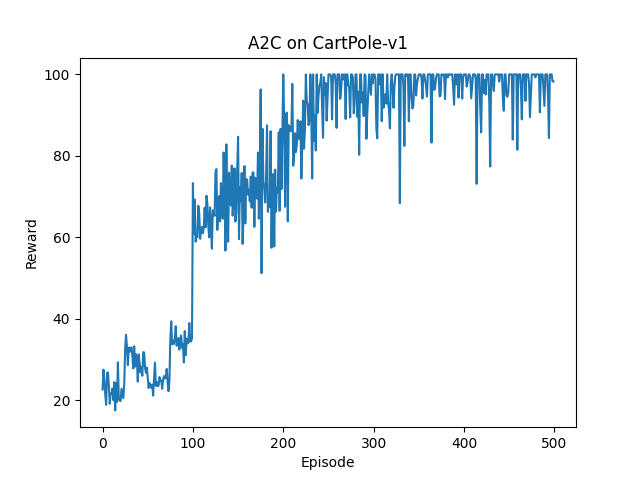
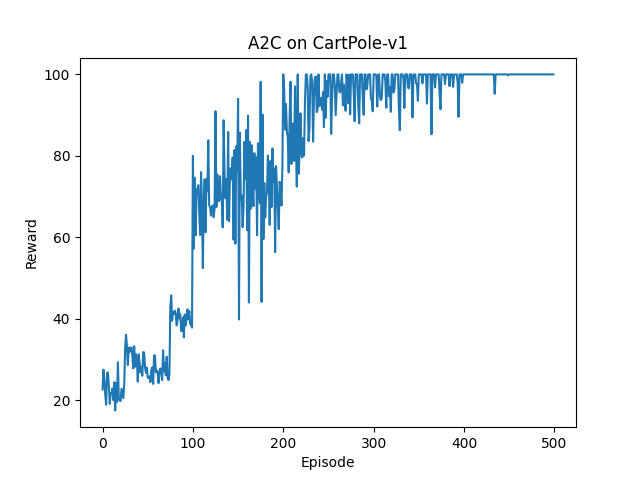
Update policy gradient methods to use batches of observations and actions

Changed region(s): [[0.2812, 0.1562, 0.875, 0.6562], [0.2188, 0.625, 0.3125, 0.8125]]

diff --git a/a2c.py b/a2c.py
@@ -1,7 +1,6 @@
 import argparse
 import random
 from collections import namedtuple
-from copy import copy
 from typing import List, Tuple
 
 import gym
@@ -19,7 +18,7 @@ random.seed(24)
 # Device configuration
 device = torch.device("cuda:0" if torch.cuda.is_available() else "cpu")
 
-Trajectory = namedtuple("Trajectory", ["state", "action", "reward"])
+Episode = namedtuple("Episode", ["states", "actions", "rewards"])
 Data = namedtuple("Data", ["values", "log_probs", "returns", "advantages"])
 
 
@@ -43,11 +42,11 @@ class ActorLearner:
         self._num_episodes = num_episodes
         self._max_steps = max_steps
 
-    def collect(self) -> Tuple[List[List[Trajectory]], List[float]]:
+    def collect(self) -> Tuple[List[Episode], List[float]]:
         """Collects experience from the environment
 
         :return: A tuple with a list of episodes and a list of total reward per episode
-        :rtype: Tuple[List[List[Trajectory]], List[float]]
+        :rtype: Tuple[List[Episode], List[float]]
         """
         episodes = []
         rewards = []
@@ -56,14 +55,21 @@ class ActorLearner:
 
         # Collect experience
         for _ in range(self._num_episodes):
-            trajectories = []
+            states = []
+            actions = []
+            rews = []
+
             steps = 0
             reward = 0.0
 
             while not done and steps < self._max_steps:
                 a = self._agent.act(s)
                 s_prime, r, done, _ = self._env.step(a)
-                trajectories.append(Trajectory(s, a, r))
+
+                states.append(s)
+                actions.append(torch.as_tensor(a))
+                rews.append(torch.as_tensor(r))
+
                 s = torch.from_numpy(s_prime).float()
                 steps += 1
                 reward += r
@@ -71,13 +77,17 @@ class ActorLearner:
             # If the episode got truncated then bootstrap to approximate the missing returns
             if not done:
                 a = self._agent.act(s)
-                v, _ = self._agent.step(s, a)
-                trajectories.append(Trajectory(s, a, v.detach().item()))
+                v, _ = self._agent.step(s, torch.as_tensor(a))
+
+                states.append(s)
+                actions.append(torch.as_tensor(a))
+                rews.append(v)
             else:
                 s = torch.from_numpy(self._env.reset()).float()
                 done = False
 
-            episodes.append(trajectories)
+            # Rewards are not converted to tensor since we compute the return by backtracking through the list
+            episodes.append(Episode(torch.stack(states), torch.stack(actions), rews))
             rewards.append(reward)
 
         return episodes, rewards
@@ -124,19 +134,13 @@ def a2c(
         pi_optimizer.zero_grad()
         # We use the negative loss because policy optimization is done using gradient _ascent_
         # This is because in policy gradient methods, the "loss" is a performance measure that is _maximized_
-        pi_loss = 0.0
-        for log_prob, advantage in zip(data.log_probs, data.advantages):
-            pi_loss += -advantage * log_prob
-        pi_loss = pi_loss.mean()
+        pi_loss = -(data.advantages * data.log_probs).mean()
         pi_loss.backward()
         pi_optimizer.step()
 
         # Update the value function
         v_optimizer.zero_grad()
-        v_loss = 0.0
-        for value, ret in zip(data.values, data.returns):
-            v_loss += (value - ret) ** 2
-        v_loss = v_loss.mean()
+        v_loss = ((data.values - data.returns) ** 2).mean()
         v_loss.backward()
         v_optimizer.step()
 
@@ -146,34 +150,47 @@ def a2c(
     return total_rewards
 
 
-def _process_episodes(episodes: List[List[Trajectory]], agent: ActorCriticAgent, gamma: float) -> Data:
+def _process_episodes(episodes: List[Episode], agent: ActorCriticAgent, gamma: float) -> Data:
     values = []
     log_probs = []
     returns = []
     advantages = []
 
     for episode in episodes:
-        trajectories = copy(episode)
+        rews = episode.rewards
         # Reverse the list so we start backpropagating the return from the last episode
-        trajectories.reverse()
+        rews.reverse()
 
-        # Compute tuples of [V(s_t), log pi(A_t|S_t), G_t, Adv(S_t,A_t)]
+        # Compute the return G_t:T
         g = 0
-        for t in trajectories:
-            # Compute the return G_t:T
-            g = t.reward + gamma * g
+        G_t = []
+        for r in rews:
+            g = r + gamma * g
+            G_t.append(g)
 
-            v, log_prob = agent.step(t.state, t.action)
+        # Reverse the list of returns so that we start from the first timestep
+        G_t.reverse()
+        G_t = torch.as_tensor(G_t).to(device)
 
-            # Baseline (i.e. advantage function) using the value function approximator
-            advantage = g - v.detach()
+        # Compute log pi(A_t|S_t) and Adv(S_t,A_t)
+        v, log_prob = agent.step(episode.states, episode.actions)
+        advantage = G_t - v.detach()
 
-            values.append(v)
-            log_probs.append(log_prob)
-            returns.append(g)
-            advantages.append(advantage)
+        # If there is only one state and one action then the tensors are scalars
+        # Scalars can't be concatenated so we need to give a dimension of 1
+        # This could happen if the episode of an learner gets truncated right before the end
+        # On the next epoch the learner will start from that episode and collect the
+        # experience consisting of that single episode
+        v = v.reshape(1) if v.dim() == 0 else v
 
-    return Data(values, log_probs, returns, advantages)
+        values.append(v)
+        log_probs.append(log_prob)
+        returns.append(G_t)
+        advantages.append(advantage)
+
+    return Data(
+        torch.cat(values, dim=0), torch.cat(log_probs, dim=0), torch.cat(returns, dim=0), torch.cat(advantages, dim=0)
+    )
 
 
 if __name__ == "__main__":

diff --git a/vpg.py b/vpg.py
@@ -1,6 +1,5 @@
 import argparse
 from collections import namedtuple
-from copy import copy
 from typing import List, Tuple
 
 import gym
@@ -16,7 +15,7 @@ torch.manual_seed(24)
 # Device configuration
 device = torch.device("cuda:0" if torch.cuda.is_available() else "cpu")
 
-Trajectory = namedtuple("Trajectory", ["state", "action", "reward"])
+Episode = namedtuple("Episode", ["states", "actions", "rewards"])
 Data = namedtuple("Data", ["values", "log_probs", "returns", "advantages"])
 
 
@@ -66,19 +65,13 @@ def vpg(
         pi_optimizer.zero_grad()
         # We use the negative loss because policy optimization is done using gradient _ascent_
         # This is because in policy gradient methods, the "loss" is a performance measure that is _maximized_
-        pi_loss = 0.0
-        for log_prob, advantage in zip(data.log_probs, data.advantages):
-            pi_loss += -advantage * log_prob
-        pi_loss = pi_loss.mean()
+        pi_loss = -(data.advantages * data.log_probs).mean()
         pi_loss.backward()
         pi_optimizer.step()
 
         # Update the value function
         v_optimizer.zero_grad()
-        v_loss = 0.0
-        for value, ret in zip(data.values, data.returns):
-            v_loss += (value - ret) ** 2
-        v_loss = v_loss.mean()
+        v_loss = ((data.values - data.returns) ** 2).mean()
         v_loss.backward()
         v_optimizer.step()
 
@@ -87,12 +80,15 @@ def vpg(
 
 def _sample_episodes(
     env: gym.Env, agent: ActorCriticAgent, num_episodes: int, max_steps: int
-) -> Tuple[List[List[Trajectory]], List[float]]:
+) -> Tuple[List[Episode], List[float]]:
     episodes = []
     rewards = []
 
     for _ in range(num_episodes):
-        trajectories = []
+        states = []
+        actions = []
+        rews = []
+
         s = torch.from_numpy(env.reset()).float()
         done = False
         steps = 0
@@ -101,7 +97,11 @@ def _sample_episodes(
         while not done and steps < max_steps:
             a = agent.act(s)
             s_prime, r, done, _ = env.step(a)
-            trajectories.append(Trajectory(s, a, r))
+
+            states.append(s)
+            actions.append(torch.as_tensor(a))
+            rews.append(torch.as_tensor(r))
+
             s = torch.from_numpy(s_prime).float()
             steps += 1
             reward += r
@@ -109,43 +109,52 @@ def _sample_episodes(
         # If the episode got truncated then bootstrap to approximate the missing returns
         if not done:
             a = agent.act(s)
-            v, _ = agent.step(s, a)
-            trajectories.append(Trajectory(s, a, v))
+            v, _ = agent.step(s, torch.as_tensor(a))
+            states.append(s)
+            actions.append(torch.as_tensor(a))
+            rews.append(v)
 
-        episodes.append(trajectories)
+        # Rewards are not converted to tensor since we compute the return by backtracking through the list
+        episodes.append(Episode(torch.stack(states), torch.stack(actions), rews))
         rewards.append(reward)
 
     return episodes, rewards
 
 
-def _process_episodes(episodes: List[List[Trajectory]], agent: ActorCriticAgent, gamma: float) -> Data:
+def _process_episodes(episodes: List[Episode], agent: ActorCriticAgent, gamma: float) -> Data:
     values = []
     log_probs = []
     returns = []
     advantages = []
 
     for episode in episodes:
-        trajectories = copy(episode)
+        rews = episode.rewards
         # Reverse the list so we start backpropagating the return from the last episode
-        trajectories.reverse()
+        rews.reverse()
 
-        # Compute tuples of [V(s_t), log pi(A_t|S_t), G_t, Adv(S_t,A_t)]
+        # Compute the return G_t:T
         g = 0
-        for t in trajectories:
-            # Compute the return G_t:T
-            g = t.reward + gamma * g
+        G_t = []
+        for r in rews:
+            g = r + gamma * g
+            G_t.append(g)
 
-            v, log_prob = agent.step(t.state, t.action)
+        # Reverse the list of returns so that we start from the first timestep
+        G_t.reverse()
+        G_t = torch.as_tensor(G_t).to(device)
 
-            # Baseline (i.e. advantage function) using the value function approximator
-            advantage = g - v.detach()
+        # Compute log pi(A_t|S_t) and Adv(S_t,A_t)
+        v, log_prob = agent.step(episode.states, episode.actions)
+        advantage = G_t - v.detach()
 
-            values.append(v)
-            log_probs.append(log_prob)
-            returns.append(g)
-            advantages.append(advantage)
+        values.append(v)
+        log_probs.append(log_prob)
+        returns.append(G_t)
+        advantages.append(advantage)
 
-    return Data(values, log_probs, returns, advantages)
+    return Data(
+        torch.cat(values, dim=0), torch.cat(log_probs, dim=0), torch.cat(returns, dim=0), torch.cat(advantages, dim=0)
+    )
 
 
 if __name__ == "__main__":

diff --git a/ppo.py b/ppo.py
@@ -132,7 +132,7 @@ def _sample_episodes(
         # If the episode got truncated then bootstrap to approximate the missing returns
         if not done:
             a = agent.act(s)
-            v, _ = agent.step(s, a)
+            v, _ = agent.step(s, torch.as_tensor(a))
             states.append(s)
             actions.append(torch.as_tensor(a))
             rews.append(v)
@@ -175,7 +175,9 @@ def _process_episodes(episodes: List[Episode], agent: ActorCriticAgent, gamma: f
         returns.append(G_t)
         advantages.append(advantage)
 
-    return Data(torch.cat(values), torch.cat(log_probs), torch.cat(returns), torch.cat(advantages))
+    return Data(
+        torch.cat(values, dim=0), torch.cat(log_probs, dim=0), torch.cat(returns, dim=0), torch.cat(advantages, dim=0)
+    )
 
 
 if __name__ == "__main__":
